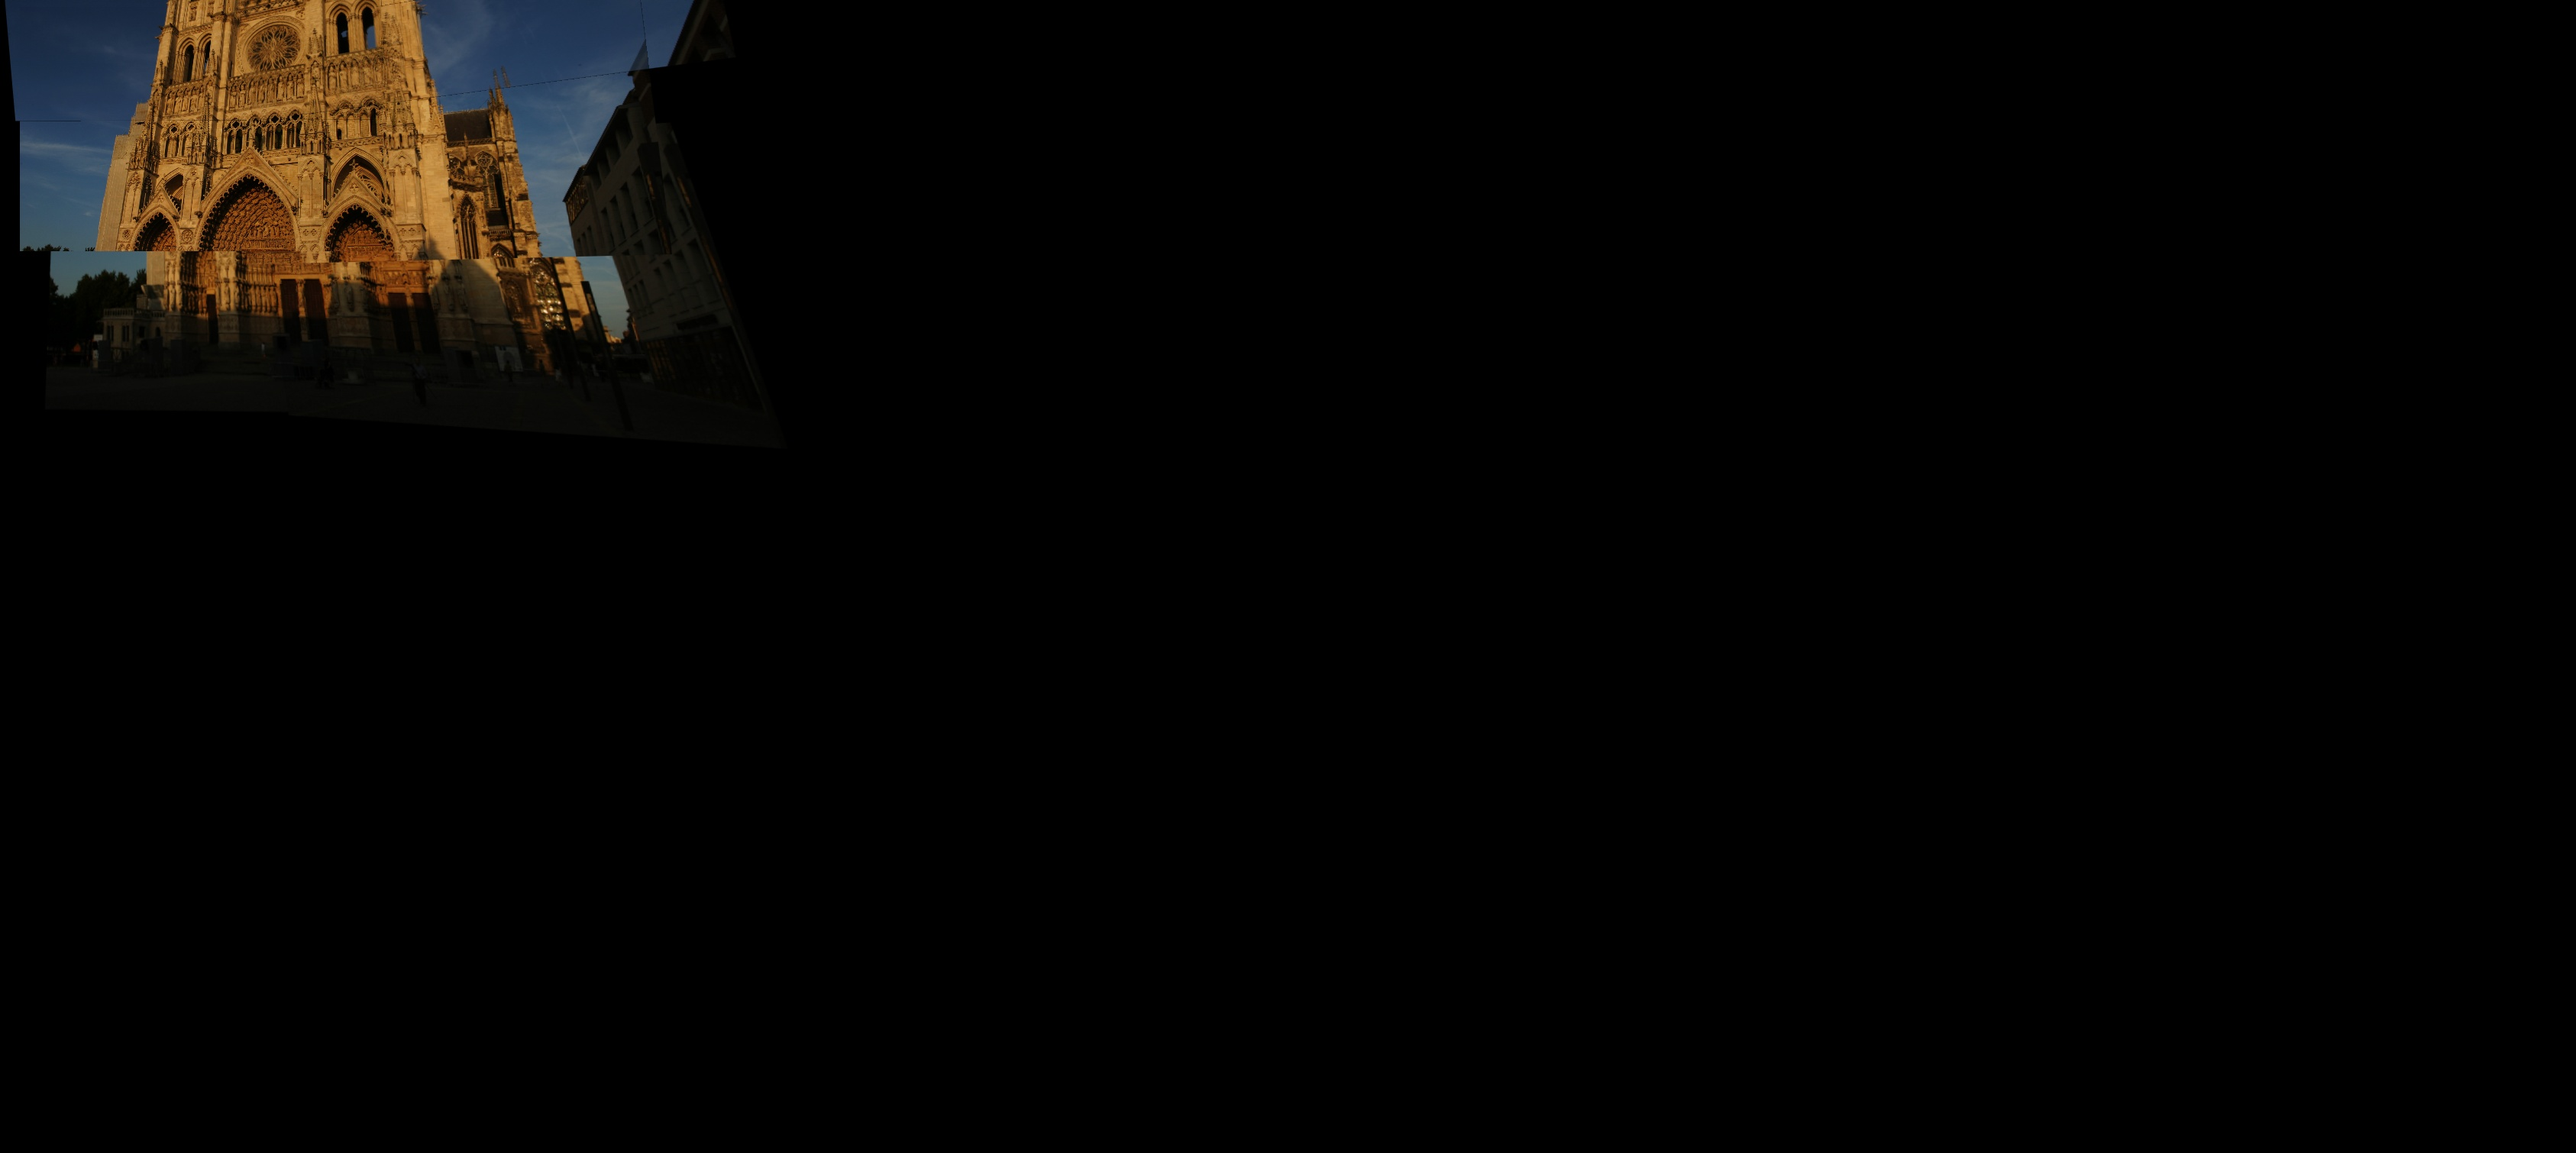
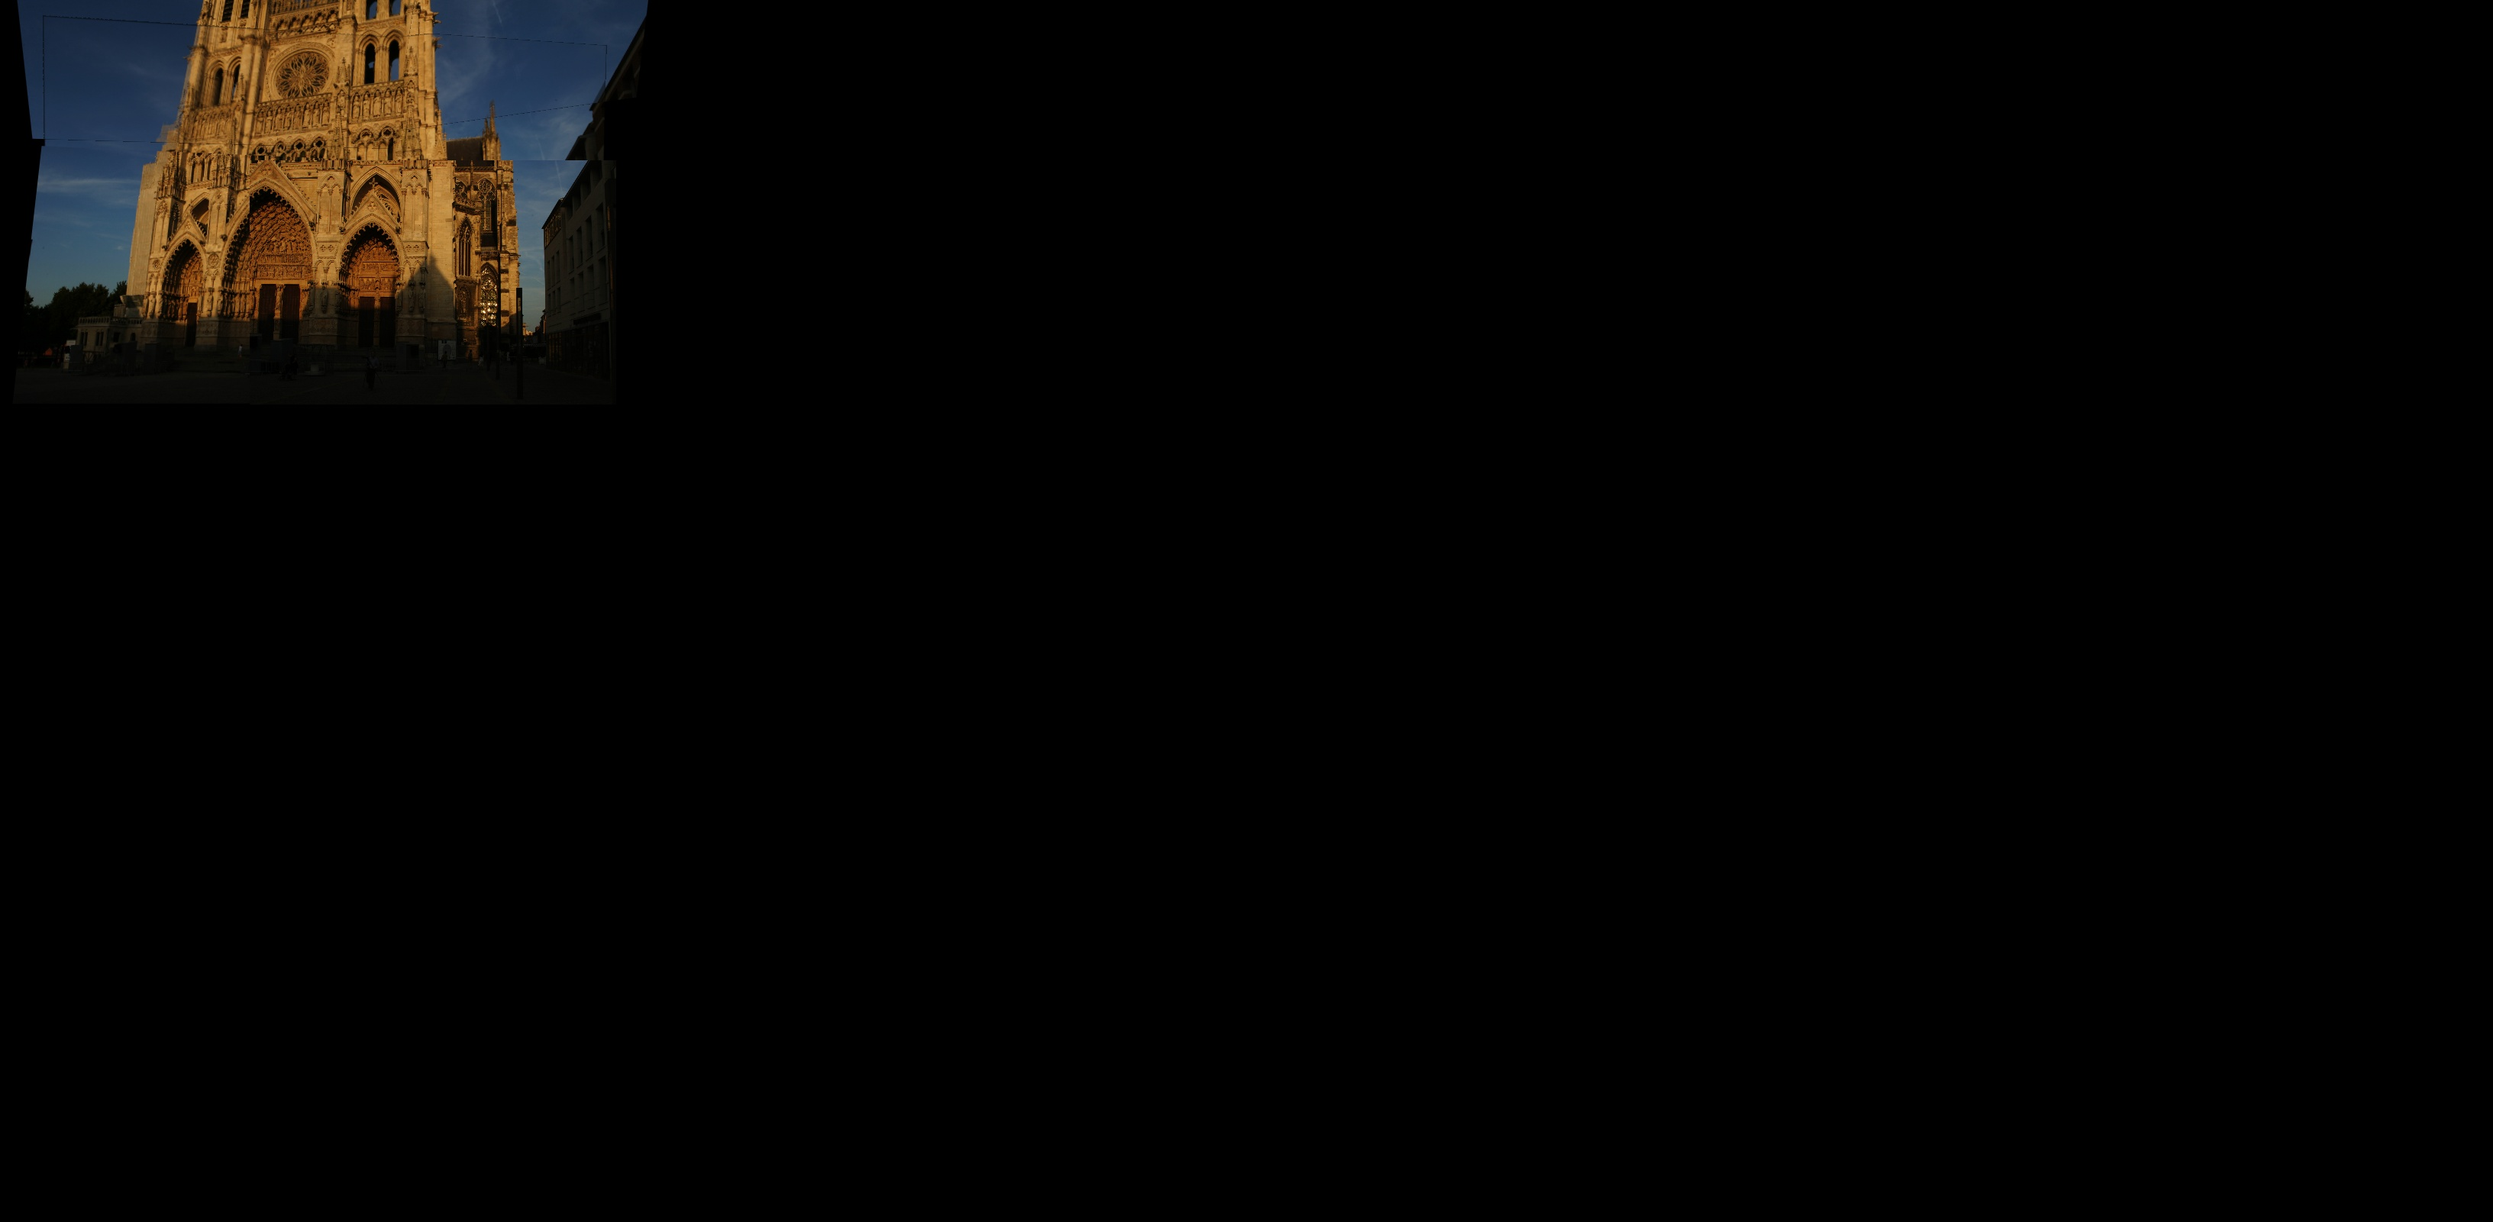
fix: fix unaligned stitching.

Changed region(s): [[0.0, 0.0, 0.2812, 0.3113], [0.2499, 0.0, 0.2812, 0.0623]]

diff --git a/Homework 2/PanoramaStitching.py b/Homework 2/PanoramaStitching.py
@@ -11,6 +11,7 @@ class Stitcher:
         self.left_list = []
         self.right_list = []
         self.center_image = None
+        self.matching_scores = self._calculate_matching_scores()
         self._prepare_image_lists()
 
     def _load_images(self):
@@ -22,16 +23,59 @@ class Stitcher:
         print("Loaded {} images from {}".format(len(images), self.folder_path))
         return images
 
+    def _calculate_matching_scores(self):
+        """Calculate matching scores for each image pair."""
+        scores = {}
+        for i, img1 in enumerate(self.images):
+            for j, img2 in enumerate(self.images):
+                if i >= j:
+                    continue
+                H = self.matcher.match(img1, img2)
+                if H is not None:
+                    score = self._calculate_homography_score(H)
+                    scores[(i, j)] = score
+        return scores
+
+    def _calculate_homography_score(self, H):
+        """Calculate a score for the homography matrix to evaluate its quality."""
+        if H is None:
+            return 0
+        # You can improve this by using a different method for scoring the homography quality.
+        return np.linalg.norm(H)
+
+    def _prepare_image_lists(self):
+        """Prepare left and right image lists based on matching scores."""
+        self.center_idx = len(self.images) // 2
+        self.center_image = self.images[self.center_idx]
+        self.left_list = [self.center_image]
+        self.right_list = []
+
+        # Define remaining images, excluding the center image
+        remaining_images = [i for i in range(len(self.images)) if i != self.center_idx]
+        
+        # Calculate matching scores for each image pair
+        matching_scores = {}
+        for idx in remaining_images:
+            scores = [
+                self.matching_scores.get((min(idx, other), max(idx, other)), 0)
+                for other in remaining_images
+            ]
+            matching_scores[idx] = max(scores) if scores else 0
+        
+        # Sort images based on matching scores
+        remaining_images.sort(key=lambda idx: matching_scores[idx], reverse=True)
+
+        # Arrange your images based on sorted matching scores
+        for idx in remaining_images:
+            if idx < self.center_idx:
+                self.left_list.append(self.images[idx])
+            else:
+                self.right_list.append(self.images[idx])
+
     def stitch(self):
         self._shift_left()
         self._shift_right()
         return self.left_image
-
-    def _prepare_image_lists(self):
-        self.center_idx = len(self.images) // 2
-        self.center_image = self.images[self.center_idx]
-        self.left_list = self.images[:self.center_idx + 1]
-        self.right_list = self.images[self.center_idx + 1:]
 
     def _shift_left(self):
         a = self.left_list[0]
